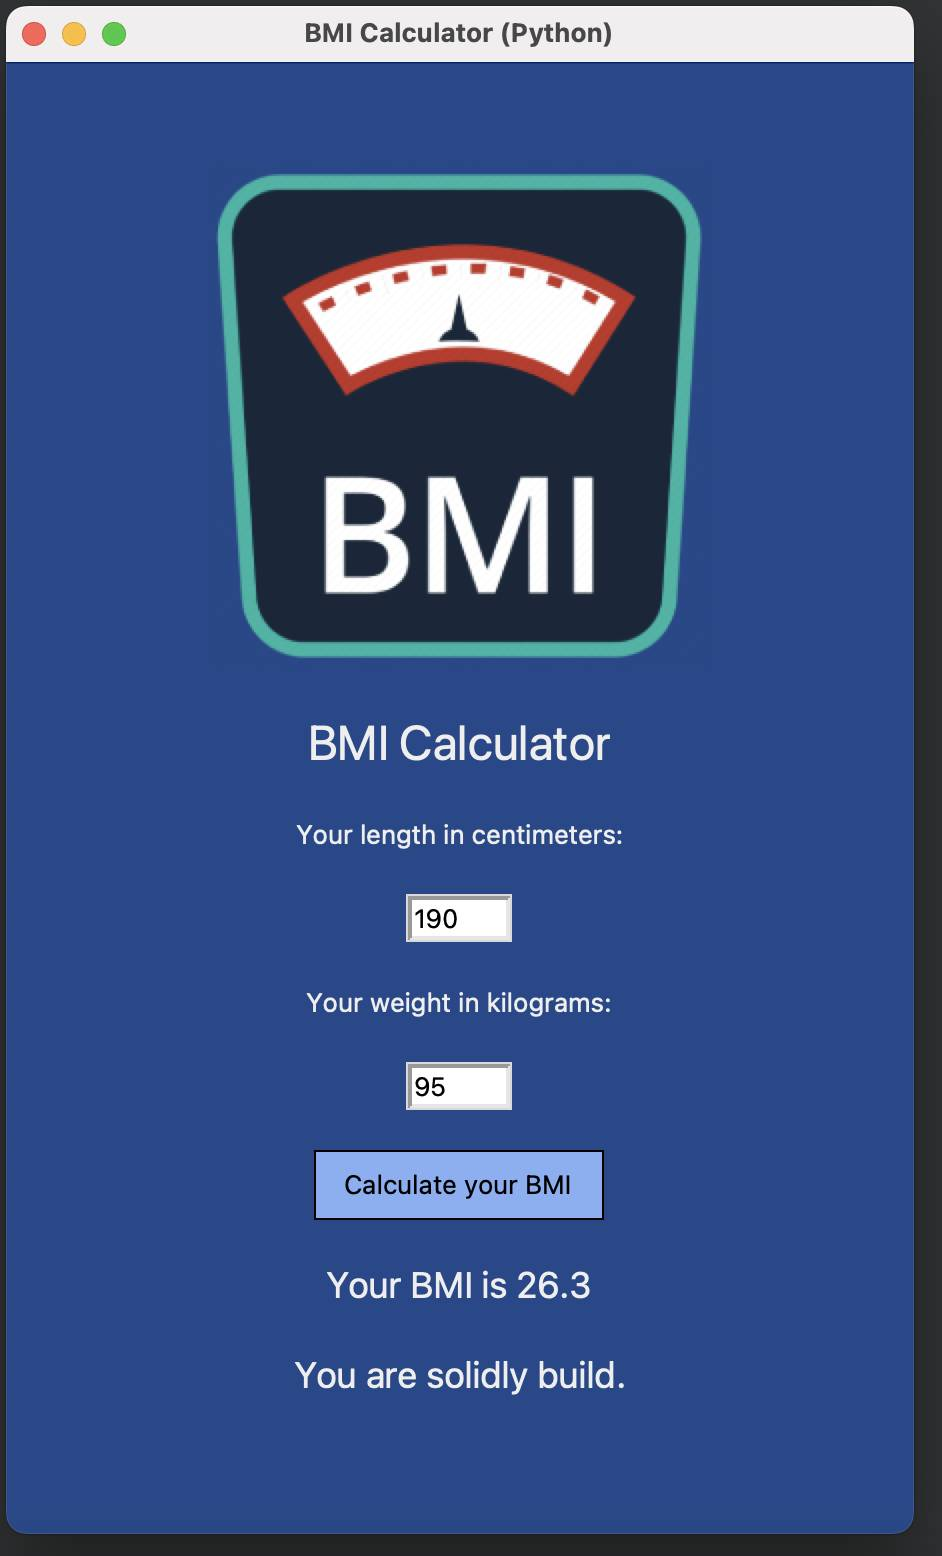
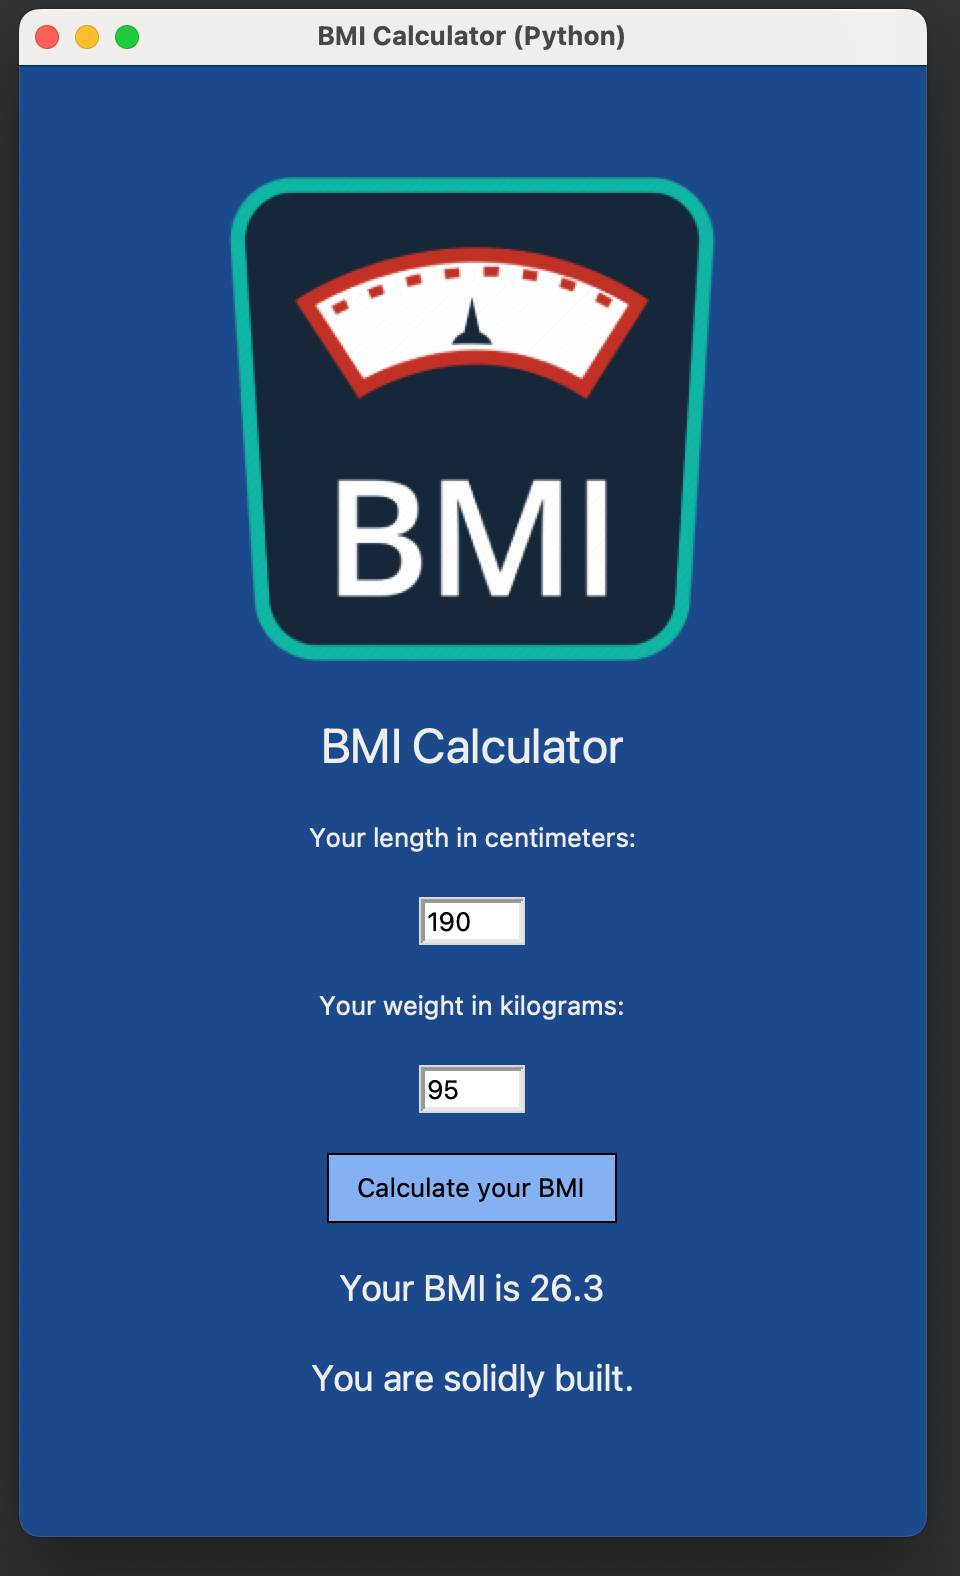
typo fix

diff --git a/public/examples/bmi-with-gui-js/app.js b/public/examples/bmi-with-gui-js/app.js
@@ -12,7 +12,7 @@ let calculateBMI = (lengthInCm, weigthInKg) =>
 // Function for assessing BMI (as an arrow function)
 let assessBMI = bmi => 'You are ' + (
   bmi > 30.0 ? 'big and beautiful' :
-  bmi > 25.0 ? 'solidly build' :
+  bmi > 25.0 ? 'solidly built' :
   bmi >= 18.5 ? 'of medium weight' : 'easily carried'
 ) + '.';
 

diff --git a/public/examples/bmi-with-gui-python/main.py b/public/examples/bmi-with-gui-python/main.py
@@ -12,7 +12,7 @@ calculate_BMI = lambda lengthInCm, weigthInKg:\
 # Function for assessing BMI (as a lambda)
 assess_BMI = lambda bmi: 'You are ' + (
   'big and beautiful' if bmi > 30.0 else
-  'solidly build' if bmi > 25.0 else
+  'solidly built' if bmi > 25.0 else
   'of medium weight' if bmi >= 18.5 else 'easily carried'
 ) + '.'
 

diff --git a/public/examples/c-sharp/Program.cs b/public/examples/c-sharp/Program.cs
@@ -12,7 +12,7 @@ public class Program {
   public String AssessBMI(double bmi) {
     return "You are " + (
       bmi > 30.0 ? "big and beautiful" :
-      bmi > 25.0 ? "solidly build" :
+      bmi > 25.0 ? "solidly built" :
       bmi >= 18.5 ? "of medium weight" : "easily carried"
     ) + ".";
   }

diff --git a/public/examples/bmi-long.py b/public/examples/bmi-long.py
@@ -13,7 +13,7 @@ class Main:
   def assess_BMI(self, bmi): 
     return 'You are ' + (
       'big and beautiful' if bmi > 30.0 else
-      'solidly build' if bmi > 25.0 else
+      'solidly built' if bmi > 25.0 else
       'of medium weight' if bmi >= 18.5 else 
       'easily carried'
     ) + '.'

diff --git a/public/examples/Main.java b/public/examples/Main.java
@@ -12,7 +12,7 @@ public class Main {
   public String assessBMI(double bmi){
     return "You are " + (
       bmi > 30.0 ? "big and beautiful" :
-      bmi > 25.0 ? "solidly build" :
+      bmi > 25.0 ? "solidly built" :
       bmi >= 18.5 ? "of medium weight" : "easily carried"
     ) + ".";
   }

diff --git a/public/examples/bmi-short.py b/public/examples/bmi-short.py
@@ -6,7 +6,7 @@ calculate_BMI = lambda lengthInCm, weigthInKg:\
 
 assess_BMI = lambda bmi: 'You are ' + (
   'big and beautiful' if bmi > 30.0 else
-  'solidly build' if bmi > 25.0 else
+  'solidly built' if bmi > 25.0 else
   'of medium weight' if bmi >= 18.5 else 'easily carried'
 ) + '.'
 
